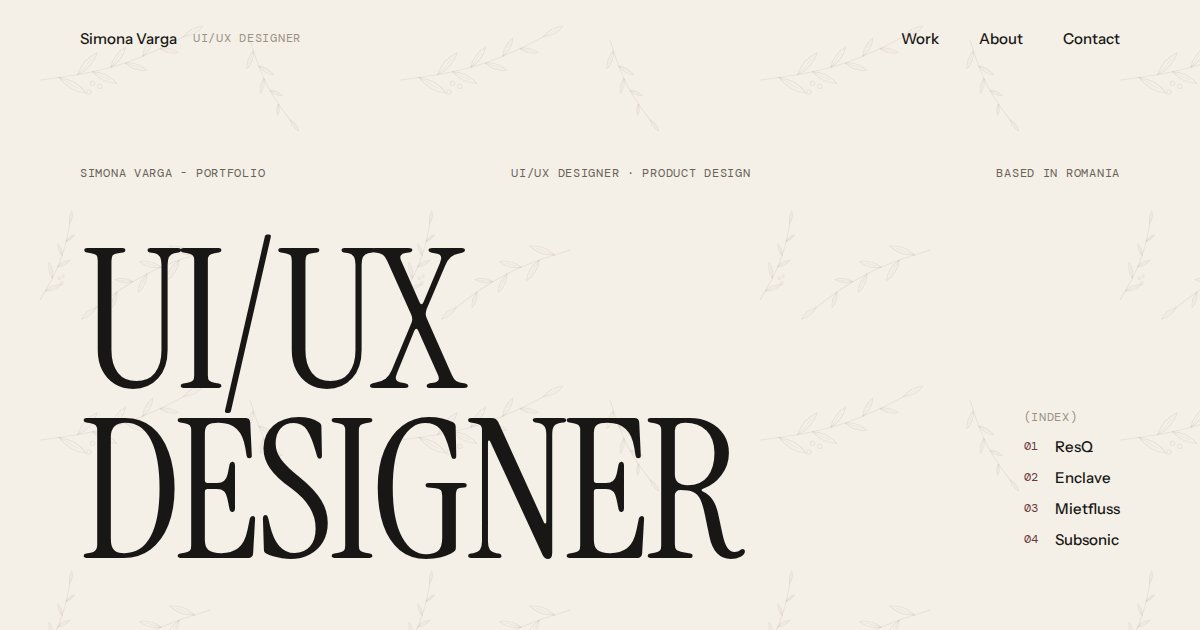
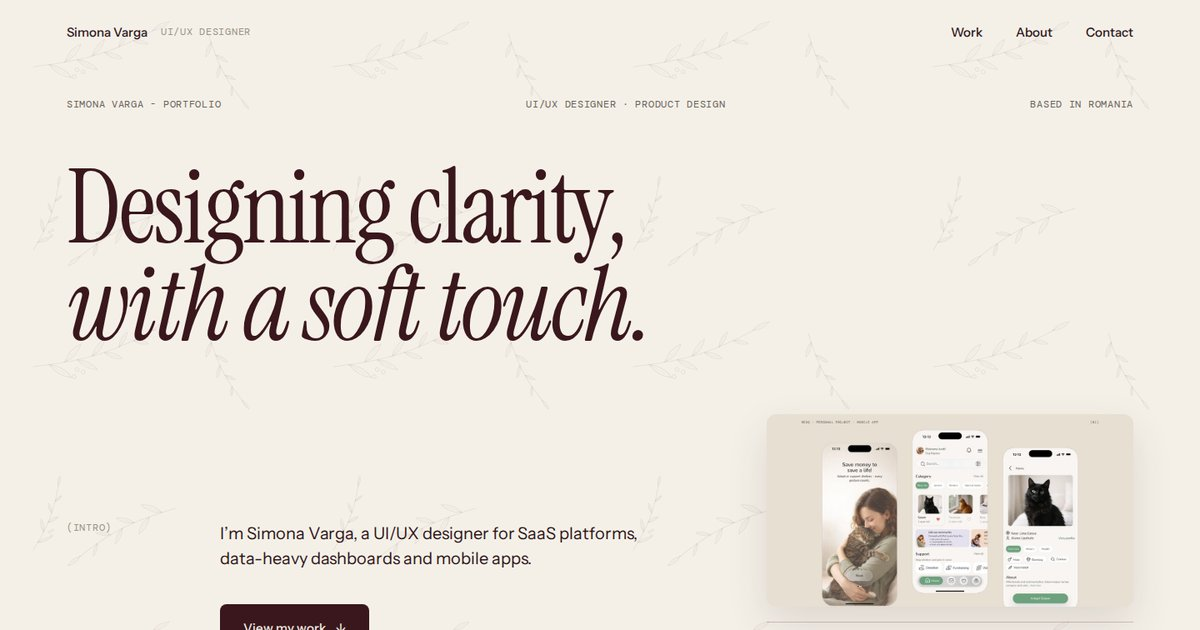
Add files via upload

diff --git a/docs/assets/style.css b/docs/assets/style.css
@@ -412,3 +412,29 @@ a:hover .btn--link .arr,.btn--link:hover .arr{transform:translateX(3px)}
 .specimen--img img{height:100%;width:auto;border-radius:8px}
 @media (max-width:760px){.specimen.radii{gap:6px}.specimen.radii i{width:40px;height:40px}.specimen.radii i:last-child{width:52px;height:24px}}
 .btnrow{display:flex;flex-wrap:wrap;gap:12px}
+/* ---------- Hero v2 ---------- */
+.hero__h{font-size:clamp(56px,8.6vw,140px);line-height:.95;letter-spacing:-.025em}
+.hero__h em{font-style:italic;color:var(--burgundy)}
+.hero__row{display:grid;grid-template-columns:1fr 440px;gap:80px;align-items:end;padding-top:16px}
+.hero__lede{display:grid;grid-template-columns:160px 1fr;gap:24px}
+.hero__lede .stack{gap:40px;max-width:520px;align-items:flex-start}
+.hero__gallery{display:flex;flex-direction:column;gap:18px}
+.gal{position:relative;aspect-ratio:1200/630;border-radius:12px;overflow:hidden;background:var(--sand);box-shadow:0 20px 50px rgba(58,23,28,.12)}
+.gal img{position:absolute;inset:0;width:100%;height:100%;object-fit:cover;opacity:0;transform:scale(1.04);transition:opacity 1.2s ease,transform 4.5s ease-out}
+.gal img.on{opacity:1;transform:none}
+.gal__index{display:flex;justify-content:space-between;border-top:1px solid var(--line);padding-top:14px}
+.gal__index a{display:flex;gap:8px;align-items:baseline;color:var(--taupe);transition:color .6s}
+.gal__index a .mono{font-size:11px}
+.gal__index a.on,.gal__index a:hover{color:var(--ink)}
+.gal__index a.on .ui{background:linear-gradient(var(--muted),var(--muted)) 0 100%/100% 1px no-repeat}
+@media (max-width:1180px){.hero__row{grid-template-columns:1fr 360px;gap:48px}.hero__lede{grid-template-columns:1fr}.hero__lede>.mono{display:none}}
+@media (max-width:760px){.hero__row{grid-template-columns:1fr;gap:40px;padding-top:0}.gal__index .mono{display:none}}
+@media (prefers-reduced-motion:reduce){.gal img{transition:none;transform:none}}
+/* ---------- Theme: burgundy headings, warm text ---------- */
+:root{--ink:#2E1418}
+h1,h2,h3,.display-xl,.display-l,.h1,.h2,.h3{color:var(--burgundy)}
+.footer h1,.footer h2,.footer h3,.footer .display-l,.footer .h1,.footer .h2,.footer .h3,.c-ivory{color:var(--ivory)}
+.btn--primary{background:var(--burgundy)}
+.btn--primary:hover{background:#56232B}
+.btn--secondary{border-color:var(--burgundy);color:var(--burgundy)}
+.btn--secondary:hover{background:var(--burgundy);color:var(--ivory)}

diff --git a/docs/index.html b/docs/index.html
@@ -40,11 +40,18 @@
 <main id="main">
 <section class="wrap hero">
   <div class="hero__meta mono c-taupe-deep"><span>Simona Varga - Portfolio</span><span>UI/UX Designer · Product Design</span><span>Based in Romania</span></div>
-  <div class="hero__title"><h1 class="display-xl">UI/UX<br>DESIGNER</h1>
-    <nav class="hero__index" aria-label="Projects"><span class="mono c-taupe">(Index)</span><a href="/resq/"><span class="mono c-muted">01</span><span class="ui">ResQ</span></a><a href="/enclave/"><span class="mono c-muted">02</span><span class="ui">Enclave</span></a><a href="/mietfluss/"><span class="mono c-muted">03</span><span class="ui">Mietfluss</span></a><a href="/subsonic/"><span class="mono c-muted">04</span><span class="ui">Subsonic</span></a></nav></div>
-  <div class="hero__intro"><span class="mono c-taupe">(Intro)</span>
-    <div class="stack"><p class="body-l">I create clear, thoughtful digital experiences that are intuitive to use and enjoyable to explore.</p>
+  <h1 class="hero__h display-l">Designing clarity,<br><em>with a soft touch.</em></h1>
+  <div class="hero__row">
+    <div class="hero__lede"><span class="mono c-taupe">(Intro)</span>
+      <div class="stack"><p class="body-l">I’m Simona Varga, a UI/UX designer for SaaS platforms, data-heavy dashboards and mobile apps.</p>
       <a class="btn btn--primary" href="#work">View my work <span aria-hidden="true">↓</span></a></div></div>
+    <div class="hero__gallery">
+      <div class="gal" aria-hidden="true">
+        <img src="/img/og-resq.jpg" alt="" class="on"><img src="/img/og-enclave.jpg" alt=""><img src="/img/og-mietfluss.jpg" alt=""><img src="/img/og-subsonic.jpg" alt="">
+      </div>
+      <nav class="gal__index" aria-label="Projects"><a href="/resq/" class="on"><span class="mono">01</span><span class="ui">ResQ</span></a><a href="/enclave/"><span class="mono">02</span><span class="ui">Enclave</span></a><a href="/mietfluss/"><span class="mono">03</span><span class="ui">Mietfluss</span></a><a href="/subsonic/"><span class="mono">04</span><span class="ui">Subsonic</span></a></nav>
+    </div>
+  </div>
 </section>
 <section class="wrap work" id="work">
   <div class="slabel mono"><span>(01)</span><span>Selected Work</span></div>
@@ -108,5 +115,6 @@
   </div>
 </footer>
 <script src="/assets/main.js" defer></script>
+<script src="/assets/hero.js" defer></script>
 </body>
 </html>

diff --git a/docs/assets/hero.js b/docs/assets/hero.js
@@ -1,0 +1,11 @@
+(() => {
+  const g = document.querySelector('.gal'); if (!g) return;
+  const imgs = [...g.querySelectorAll('img')], links = [...document.querySelectorAll('.gal__index a')];
+  let i = 0, t;
+  const show = n => { i = n; imgs.forEach((im, k) => im.classList.toggle('on', k === n)); links.forEach((a, k) => a.classList.toggle('on', k === n)); };
+  if (window.matchMedia('(prefers-reduced-motion: reduce)').matches) return;
+  const play = () => { clearInterval(t); t = setInterval(() => show((i + 1) % imgs.length), 3400); };
+  links.forEach((a, k) => a.addEventListener('mouseenter', () => { clearInterval(t); show(k); }));
+  document.querySelector('.gal__index').addEventListener('mouseleave', play);
+  play();
+})();
